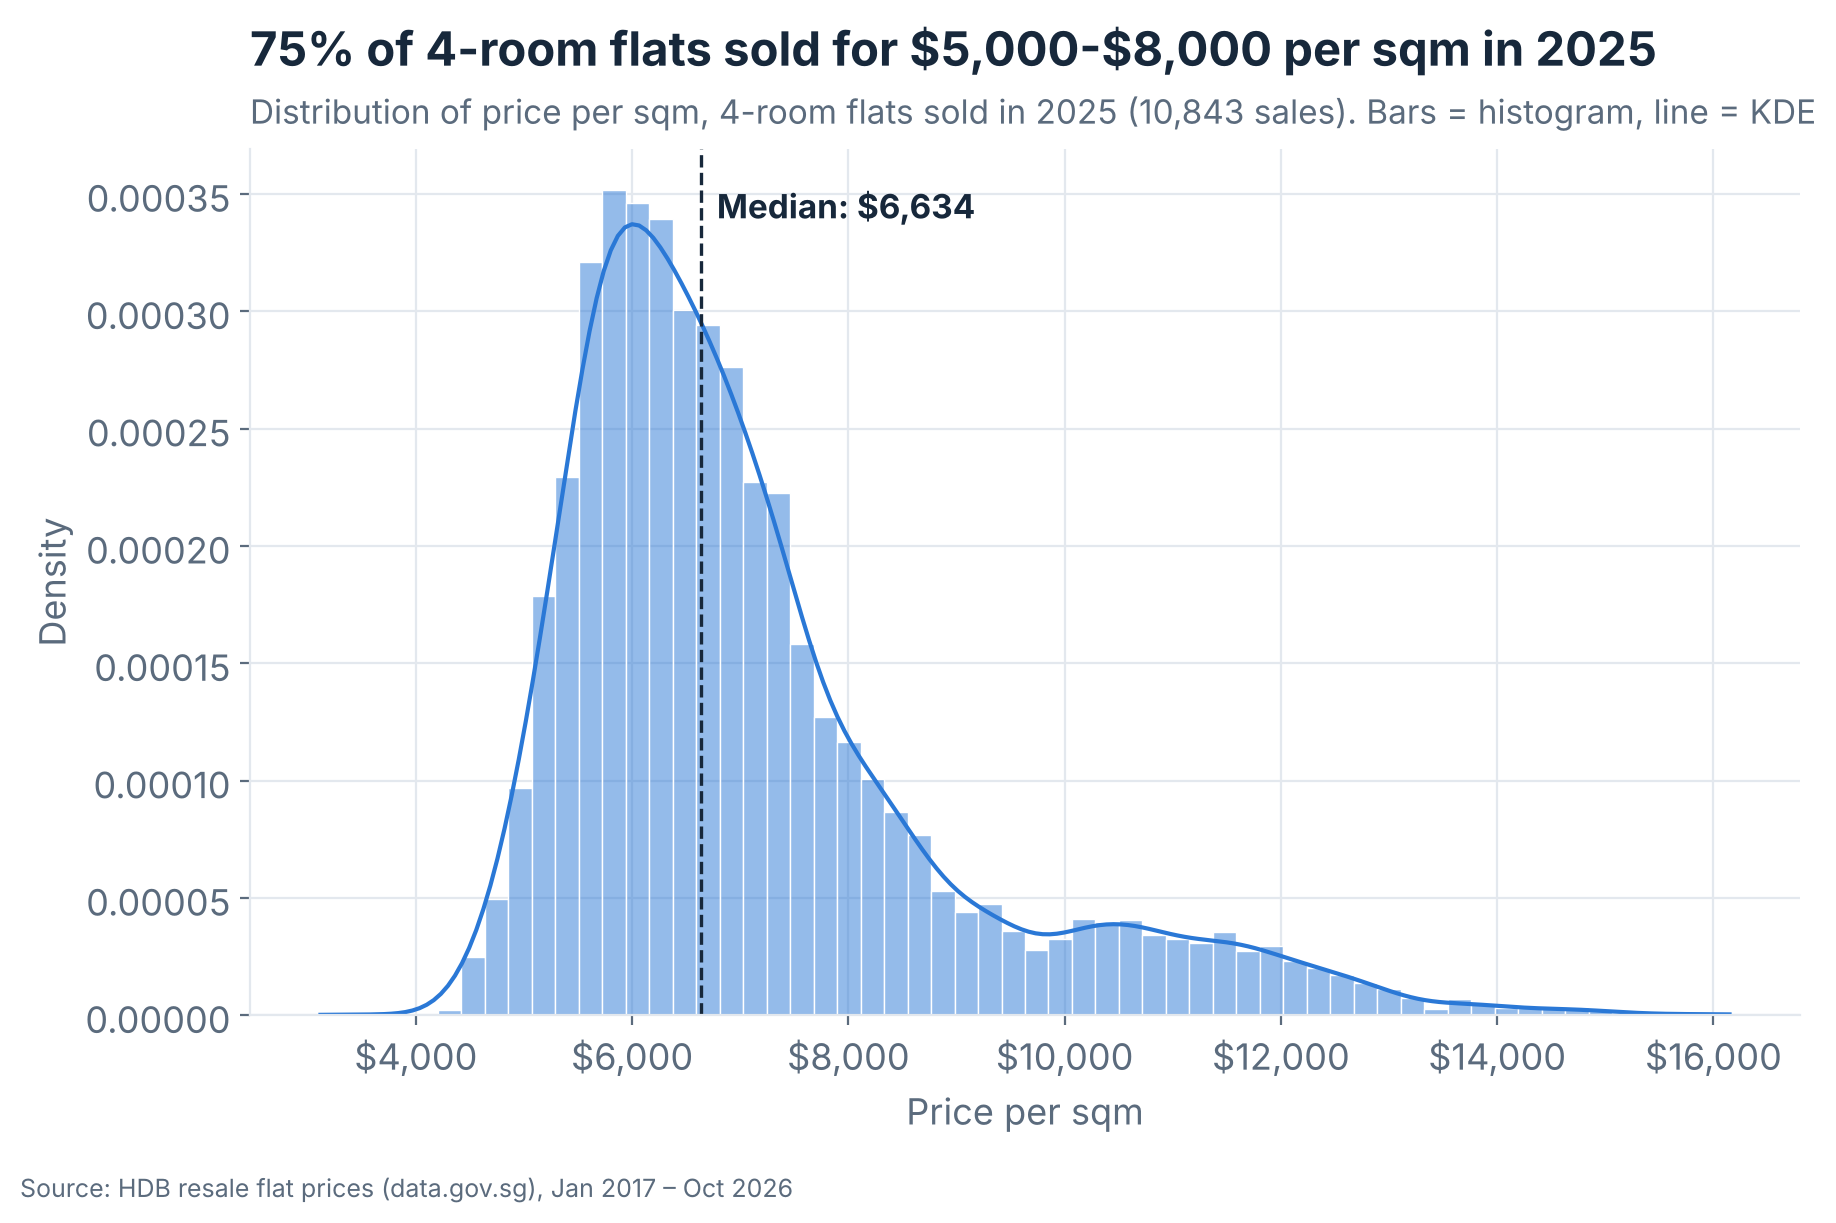
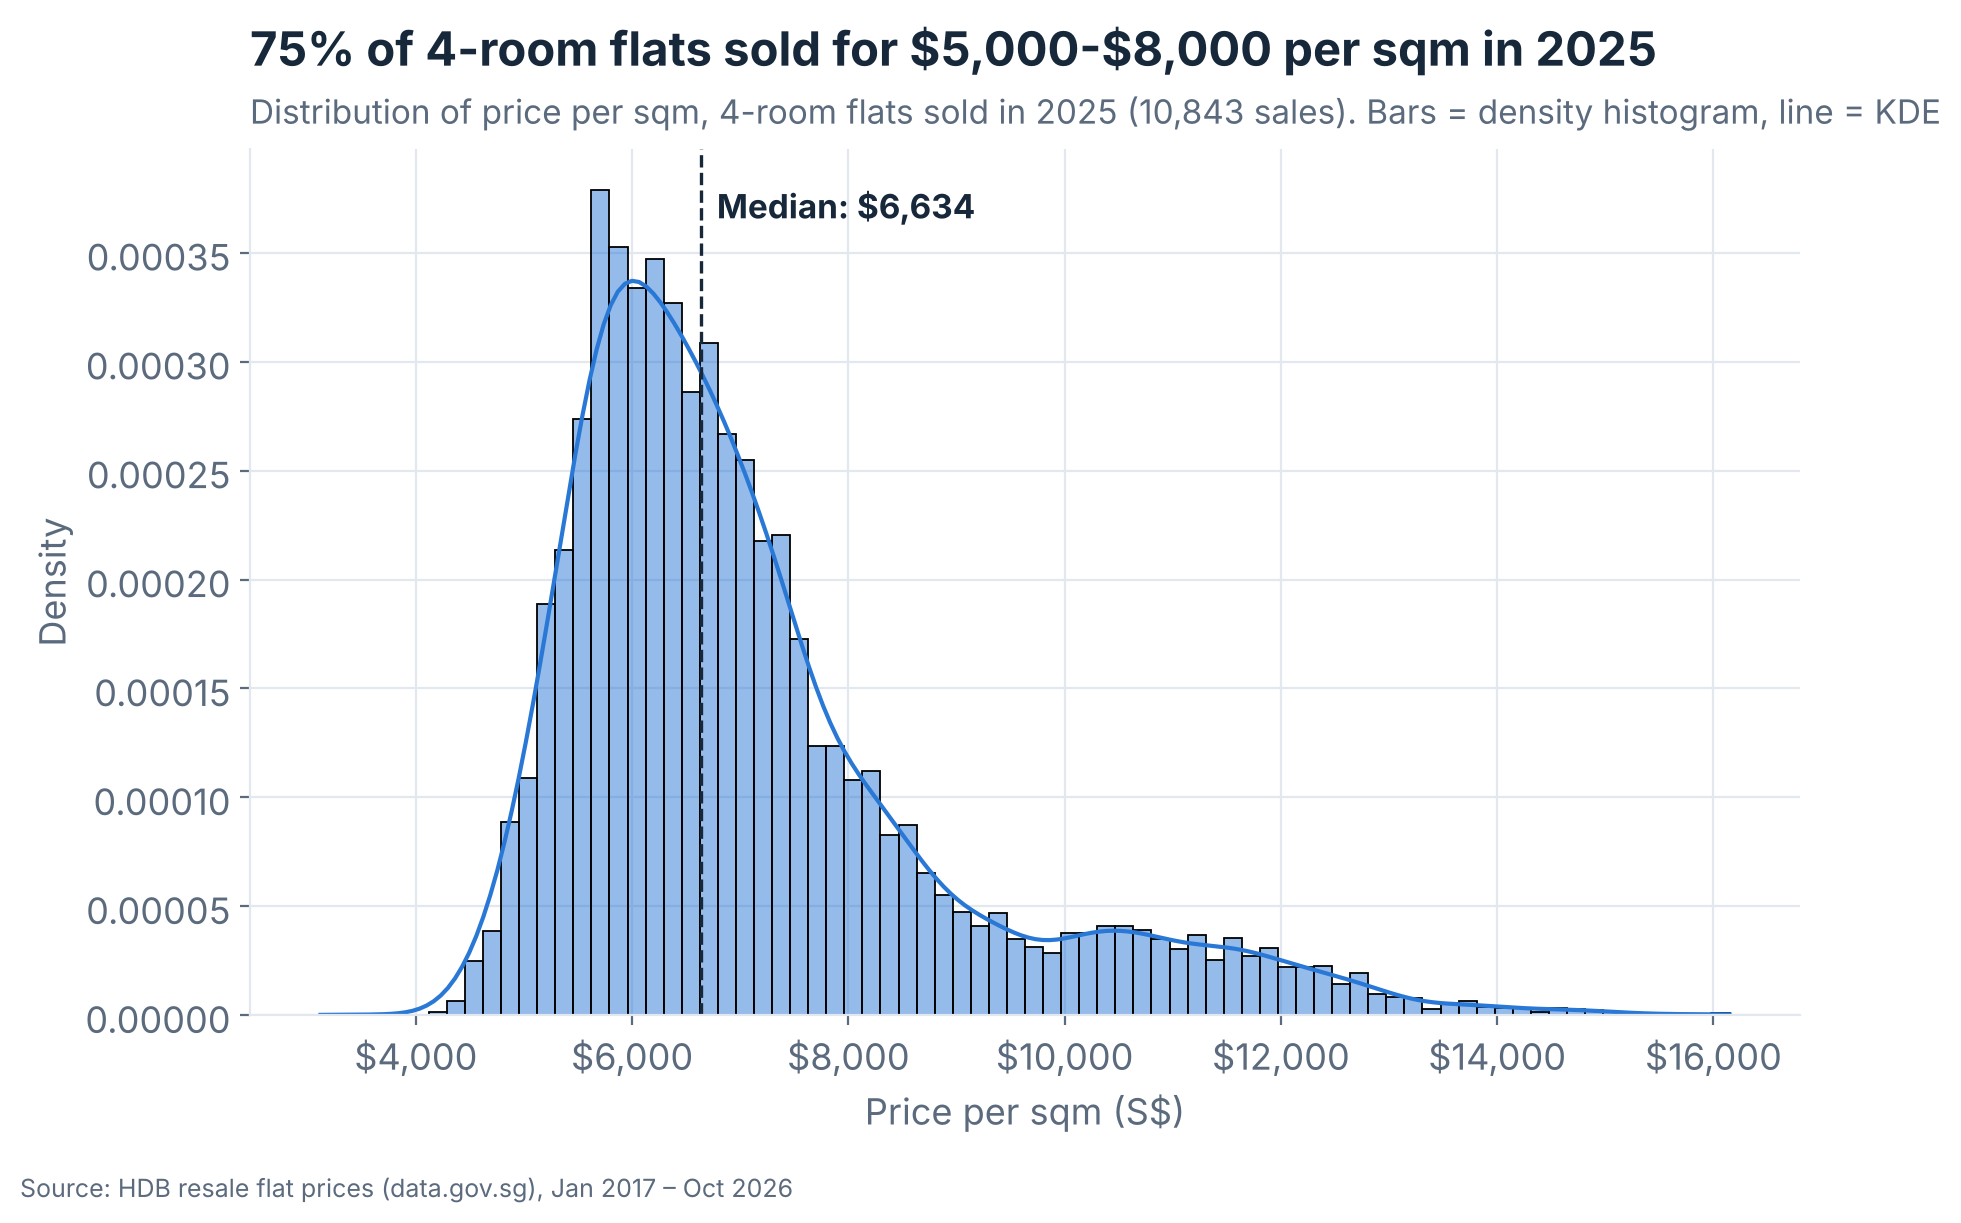
Write the Seaborn figures in the Lecture 8 style
- sns.histplot with bins="auto", stat="density", kde=True
- subplots as fig, axs = plt.subplots(nrows=1, ncols=2) with axs[0]/axs[1],
  fig.suptitle and fig.tight_layout
- sns.regplot with ci=None and "Sample correlation = r" via .corr() and
  ax.text(..., transform=ax.transAxes)
- one keyword argument per line in Seaborn calls; set_xlabel/set_ylabel on every Axes

diff --git a/src/make_figures.py b/src/make_figures.py
@@ -338,111 +338,161 @@ def fig_map(four):
 # 7. Distributions with Seaborn (figures 08-11)
 # ---------------------------------------------------------------------------
 def fig_hist_kde(four, end_year):
-    """Histogram + KDE of price per sqm for one year."""
+    """Density histogram + KDE of price per sqm for one year (Lecture 8, sns.histplot)."""
     data = four[four["year"] == end_year]
     median = data["price_per_sqm"].median()
     share = data["price_per_sqm"].between(5000, 8000).mean() * 100
 
     fig, ax = plt.subplots()
-    sns.histplot(data=data, x="price_per_sqm", stat="density", kde=True,
-                 bins=60, color=BLUE, edgecolor="white", linewidth=0.5, ax=ax)
+
+    sns.histplot(
+        data=data,
+        x="price_per_sqm",
+        bins="auto",
+        stat="density",
+        kde=True,
+        color=BLUE,
+        ax=ax,
+    )
+
+    # Mark the median with a dashed vertical line.
     ax.axvline(median, color=INK, linewidth=1.2, linestyle="--")
     ax.text(median + 150, ax.get_ylim()[1] * 0.92, f"Median: ${median:,.0f}",
             color=INK, fontsize=12, fontweight="bold")
+
     ax.xaxis.set_major_formatter(mtick.StrMethodFormatter("${x:,.0f}"))
-    ax.set_xlabel("Price per sqm")
+    ax.set_xlabel("Price per sqm (S$)")
     ax.set_ylabel("Density")
-    # A backslash before "$" stops Matplotlib from reading text between two "$" signs as a formula
+    # A backslash before "$" stops Matplotlib from reading text between two "$" signs as a formula.
     ax.set_title(f"{share:.0f}% of 4-room flats sold for \\$5,000-\\$8,000 per sqm in {end_year}")
     subtitle(ax, f"Distribution of price per sqm, 4-room flats sold in {end_year} "
-                 f"({len(data):,} sales). Bars = histogram, line = KDE")
+                 f"({len(data):,} sales). Bars = density histogram, line = KDE")
     source(fig)
     save(fig, f"08_hist_kde_psm_4room_{end_year}.png")
 
 
 def fig_box_by_town(four, end_year):
-    """Box plot of price per sqm by town, sorted by median."""
+    """Box plots of price per sqm by town, sorted by median (Lecture 8, sns.boxplot)."""
     data = four[four["year"] == end_year]
+
+    # Keep towns with enough sales, then sort towns by their median price per sqm.
     counts = data["town"].value_counts()
     data = data[data["town"].isin(counts[counts >= MIN_SALES].index)]
-    order = (data.groupby("town")["price_per_sqm"].median()
-             .sort_values(ascending=False).index)
+    order = (
+        data.groupby("town")["price_per_sqm"].median()
+        .sort_values(ascending=False)
+        .index
+    )
 
     fig, ax = plt.subplots(figsize=(10, 9))
-    sns.boxplot(data=data, x="price_per_sqm", y="town", order=order, color=LIGHT_BLUE,
-                width=0.6, linewidth=1, fliersize=1.5,
-                medianprops={"color": INK, "linewidth": 2}, ax=ax)
+
+    sns.boxplot(
+        data=data,
+        x="price_per_sqm",
+        y="town",
+        order=order,
+        color=LIGHT_BLUE,
+        fliersize=1.5,
+        ax=ax,
+    )
+
     ax.xaxis.set_major_formatter(mtick.StrMethodFormatter("${x:,.0f}"))
-    ax.tick_params(axis="y", length=0, labelsize=11, labelcolor=INK)
-    ax.grid(axis="y", visible=False)
-    ax.set_xlabel("Price per sqm")
-    ax.set_ylabel("")
+    ax.set_xlabel("Price per sqm (S$)")
+    ax.set_ylabel("Town")
     ax.set_title(f"Central towns cost more per sqm, and prices within them vary more ({end_year})")
-    subtitle(ax, f"Price per sqm, 4-room flats sold in {end_year}, towns sorted by median. "
-                 f"Box = middle 50% of sales, dots = unusual sales")
+    subtitle(ax, f"4-room flats sold in {end_year}, towns sorted by median. "
+                 "Box = middle 50% of sales, line = median, dots = potential outliers")
+    ax.grid(axis="y", visible=False)
     source(fig)
     save(fig, f"09_box_psm_by_town_{end_year}.png")
 
 
 def fig_dist_compare(four, end_year):
-    """Price per sqm in the base year and the last full year, side by side."""
-    fig, axes = plt.subplots(nrows=1, ncols=2, figsize=(11, 5), sharex=True, sharey=True)
-    for ax, year, color in zip(axes, [BASE_YEAR, end_year], [LIGHT_BLUE, BLUE]):
+    """Base year vs last full year, side by side (Lecture 8, plt.subplots with two Axes)."""
+    fig, axs = plt.subplots(nrows=1, ncols=2, figsize=(14, 5), sharex=True, sharey=True)
+
+    for i, (year, color) in enumerate([(BASE_YEAR, LIGHT_BLUE), (end_year, BLUE)]):
         data = four[four["year"] == year]
         median = data["price_per_sqm"].median()
-        sns.histplot(data=data, x="price_per_sqm", stat="density", kde=True,
-                     bins=50, color=color, edgecolor="white", linewidth=0.5, ax=ax)
-        ax.axvline(median, color=INK, linewidth=1.2, linestyle="--")
-        ax.text(median + 150, ax.get_ylim()[1] * 0.92, f"Median ${median:,.0f}",
-                color=INK, fontsize=11, fontweight="bold")
-        ax.xaxis.set_major_locator(mtick.MultipleLocator(2000))
-        ax.xaxis.set_major_formatter(mtick.FuncFormatter(money))
-        ax.set_xlabel("Price per sqm")
-        ax.set_title(f"{year} ({len(data):,} sales)", pad=10, fontsize=14)
-    axes[0].set_ylabel("Density")
+
+        sns.histplot(
+            data=data,
+            x="price_per_sqm",
+            bins="auto",
+            stat="density",
+            kde=True,
+            color=color,
+            ax=axs[i],
+        )
+
+        axs[i].axvline(median, color=INK, linewidth=1.2, linestyle="--")
+        axs[i].text(median + 150, axs[i].get_ylim()[1] * 0.92, f"Median ${median:,.0f}",
+                    color=INK, fontsize=11, fontweight="bold")
+        axs[i].xaxis.set_major_locator(mtick.MultipleLocator(2000))
+        axs[i].xaxis.set_major_formatter(mtick.FuncFormatter(money))
+        axs[i].set_xlabel("Price per sqm (S$)")
+        axs[i].set_ylabel("Density")
+        axs[i].set_title(f"{year} ({len(data):,} sales)", pad=10, fontsize=14)
+
     base = four.loc[four["year"] == BASE_YEAR, "price_per_sqm"].median()
     end = four.loc[four["year"] == end_year, "price_per_sqm"].median()
-    fig.tight_layout(rect=(0, 0, 1, 0.84))
-    fig.text(0.01, 0.97, f"The whole price distribution moved right: median +{(end / base - 1) * 100:.0f}% "
-             f"from {BASE_YEAR} to {end_year}",
-             ha="left", va="top", fontsize=17, fontweight="bold", color=INK)
-    fig.text(0.01, 0.90, f"Price per sqm, 4-room flats, {BASE_YEAR} (left) vs {end_year} (right). "
-             "Same axes on both sides", ha="left", va="top", fontsize=12, color=MUTED)
+    fig.suptitle(f"4-room price per sqm moved right: median +{(end / base - 1) * 100:.0f}% "
+                 f"from {BASE_YEAR} to {end_year} (same axes on both sides)",
+                 fontsize=16, fontweight="bold", color=INK)
+    fig.tight_layout()
     source(fig)
     save(fig, f"10_dist_{BASE_YEAR}_vs_{end_year}.png")
 
 
 def fig_town_mrt_regplot(four, end_year):
-    """Town medians: distance to MRT vs price per sqm, with a fitted line."""
+    """Town medians: distance to MRT vs price per sqm (Lecture 8, sns.regplot + correlation)."""
     data = four[(four["year"] == end_year) & four["mrt_dist_m"].notna()]
-    towns = (data.groupby("town")
-             .agg(mrt=("mrt_dist_m", "median"), psm=("price_per_sqm", "median"),
-                  sales=("price_per_sqm", "size")))
+
+    # One row per town: median distance to the MRT and median price per sqm.
+    towns = data.groupby("town").agg(
+        mrt=("mrt_dist_m", "median"),
+        psm=("price_per_sqm", "median"),
+        sales=("price_per_sqm", "size"),
+    )
     towns = towns[towns["sales"] >= MIN_SALES]
-    r = towns["mrt"].corr(towns["psm"])
 
     fig, ax = plt.subplots()
-    sns.regplot(data=towns, x="mrt", y="psm", color=BLUE, ax=ax,
-                scatter_kws={"s": 70, "edgecolor": "white", "linewidths": 1.5},
-                line_kws={"color": ORANGE, "linewidth": 2})
+
+    sns.regplot(
+        data=towns,
+        x="mrt",
+        y="psm",
+        ci=None,
+        scatter_kws={"color": BLUE, "s": 70, "alpha": 0.9},
+        line_kws={"color": ORANGE, "linewidth": 2},
+        ax=ax,
+    )
+
+    # Label a few towns so the dots can be read.
     labels = {"Central Area": (7, 0, "left"), "Toa Payoh": (7, 0, "left"),
               "Queenstown": (7, 0, "left"), "Marine Parade": (7, 0, "left"),
-              "Punggol": (7, 0, "left"), "Choa Chu Kang": (7, 0, "left"),
+              "Bukit Panjang": (7, 0, "left"), "Choa Chu Kang": (7, 0, "left"),
               "Yishun": (0, 14, "center")}
     for town, (dx, dy, ha) in labels.items():
         if town in towns.index:
             ax.annotate(town, (towns.loc[town, "mrt"], towns.loc[town, "psm"]),
                         xytext=(dx, dy), textcoords="offset points", ha=ha, va="center",
                         fontsize=10, color=INK)
-    ax.text(0.98, 0.95, f"Correlation r = {r:.2f}\n{len(towns)} towns", transform=ax.transAxes,
-            ha="right", va="top", fontsize=13, fontweight="bold", color=INK)
+
+    # Calculate the Pearson sample correlation coefficient.
+    r = towns["mrt"].corr(towns["psm"])
+
+    # Display the sample correlation coefficient.
+    ax.text(0.65, 0.85, f"Sample correlation = {r:.2f}", transform=ax.transAxes,
+            fontsize=13, fontweight="bold", color=INK)
+
     ax.yaxis.set_major_formatter(mtick.StrMethodFormatter("${x:,.0f}"))
     ax.xaxis.set_major_formatter(mtick.StrMethodFormatter("{x:,.0f} m"))
     ax.set_xlabel("Median straight-line distance to the nearest MRT/LRT exit")
-    ax.set_ylabel("Median price per sqm")
+    ax.set_ylabel("Median price per sqm (S$)")
     ax.set_title(f"Towns further from the MRT tend to be cheaper per sqm (r = {r:.2f})")
-    subtitle(ax, f"Each dot is a town (4-room flats sold in {end_year}, towns with "
-                 f"{MIN_SALES}+ sales). Line = linear fit with 95% CI")
+    subtitle(ax, f"Each dot is a town ({len(towns)} towns with {MIN_SALES}+ sales of 4-room "
+                 f"flats in {end_year}). Line = OLS regression line")
     source(fig)
     save(fig, f"11_town_mrt_vs_psm_{end_year}.png")
 
